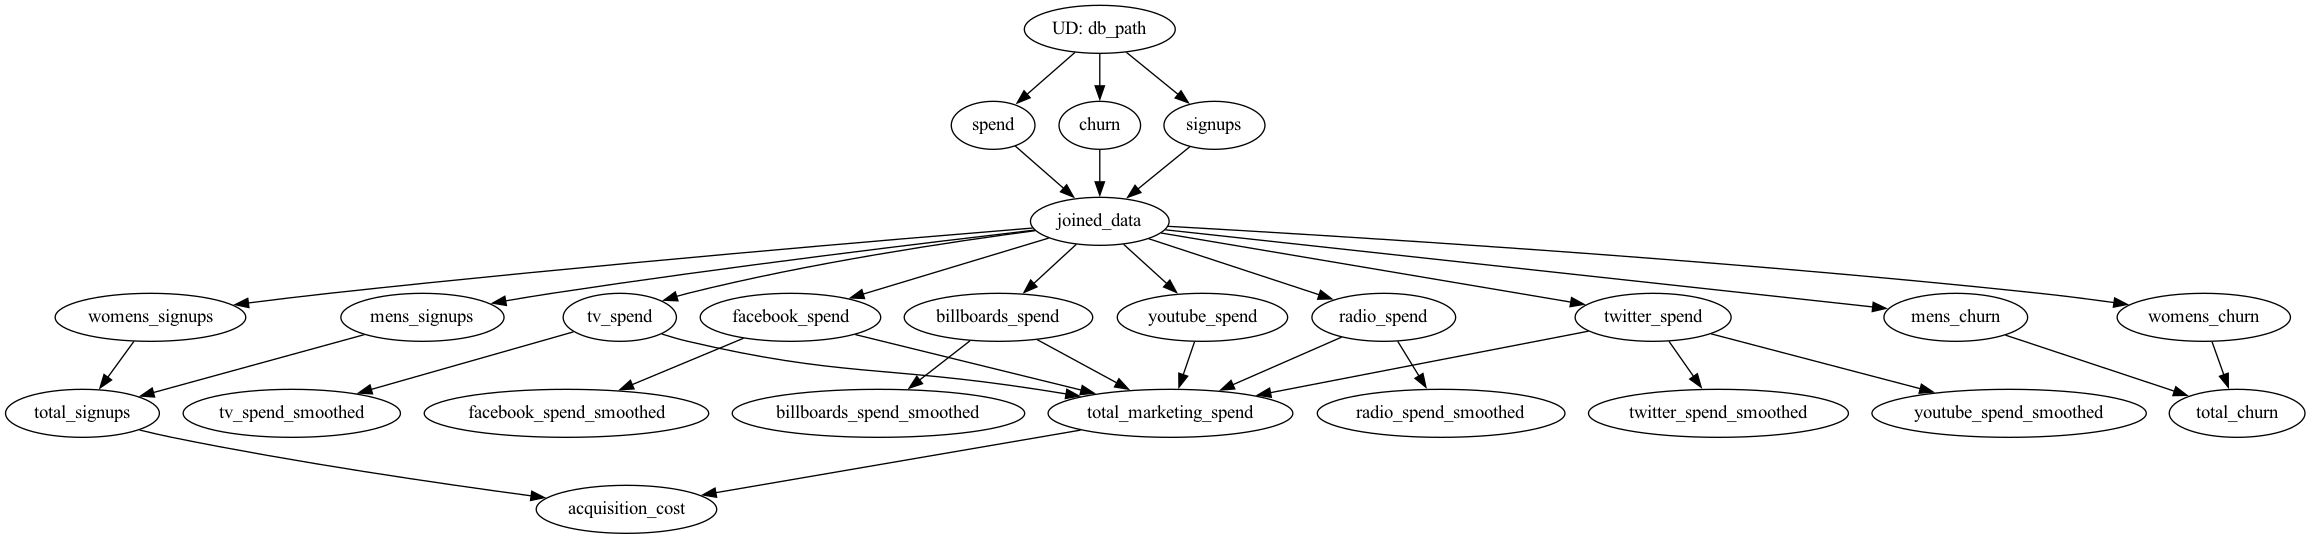
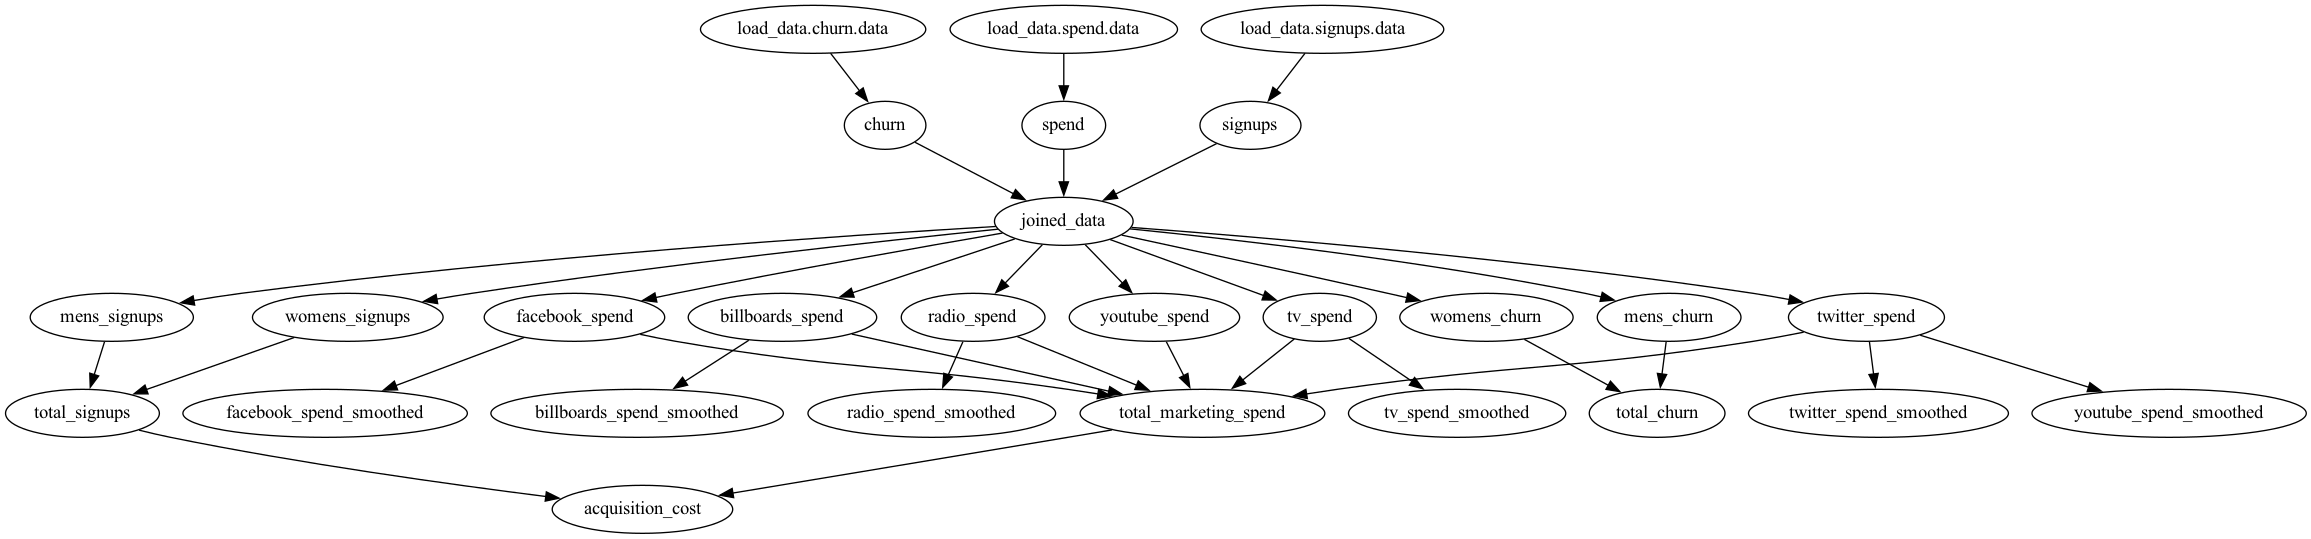
Fixes up data_loaders example to use new decorators

diff --git a/examples/data_loaders/load_data_csv.py b/examples/data_loaders/load_data_csv.py
@@ -1,10 +1,9 @@
 import pandas as pd
 
-from hamilton.function_modifiers import value
-from hamilton.function_modifiers.adapters import load_from
+from hamilton.function_modifiers import load_from, value
 
 
-@load_from.csv(path=value("marketing_spend.csv"))
+@load_from.csv(path=value("test_data/marketing_spend.csv"))
 def spend(data: pd.DataFrame) -> pd.DataFrame:
     """Takes in the dataframe and then generates a date index column to it,
     where each row is a day starting from 2020-01-01"""
@@ -12,7 +11,7 @@ def spend(data: pd.DataFrame) -> pd.DataFrame:
     return data
 
 
-@load_from.csv(path=value("churn.csv"))
+@load_from.csv(path=value("test_data/churn.csv"))
 def churn(data: pd.DataFrame) -> pd.DataFrame:
     """Takes in the dataframe and then generates a date index column to it,
     where each row is a day starting from 2020-01-01
@@ -21,7 +20,7 @@ def churn(data: pd.DataFrame) -> pd.DataFrame:
     return data
 
 
-@load_from.csv(path=value("signups.csv"))
+@load_from.csv(path=value("test_data/signups.csv"))
 def signups(data: pd.DataFrame) -> pd.DataFrame:
     """Takes in the dataframe and then generates a date index column to it,
     where each row is a day starting from 2020-01-01

diff --git a/examples/data_loaders/run.py b/examples/data_loaders/run.py
@@ -1,9 +1,10 @@
 import click
+import load_data_csv
+import load_data_duckdb
 import load_data_mock
 import prep_data
 
 import hamilton.driver
-from examples.data_loaders import load_data_csv, load_data_duckdb
 
 
 @click.group()
@@ -38,7 +39,7 @@ def duckdb():
 def csv():
     driver = hamilton.driver.Driver({"db_path": "test_data"}, load_data_csv, prep_data)
     print(driver.execute(VARS))
-    # driver.visualize_execution(VARS, './csv_execution_graph', {"format": "png"})
+    driver.visualize_execution(VARS, "./csv_execution_graph", {"format": "png"})
 
 
 @main.command()

diff --git a/hamilton/function_modifiers/__init__.py b/hamilton/function_modifiers/__init__.py
@@ -1,6 +1,7 @@
 import logging
 
 from . import (
+    adapters,
     base,
     configuration,
     delayed,
@@ -83,3 +84,6 @@ parameterized_subdag = recursive.parameterized_subdag
 
 resolve = delayed.resolve
 ResolveAt = delayed.ResolveAt
+
+# materialization stuff
+load_from = adapters.load_from
